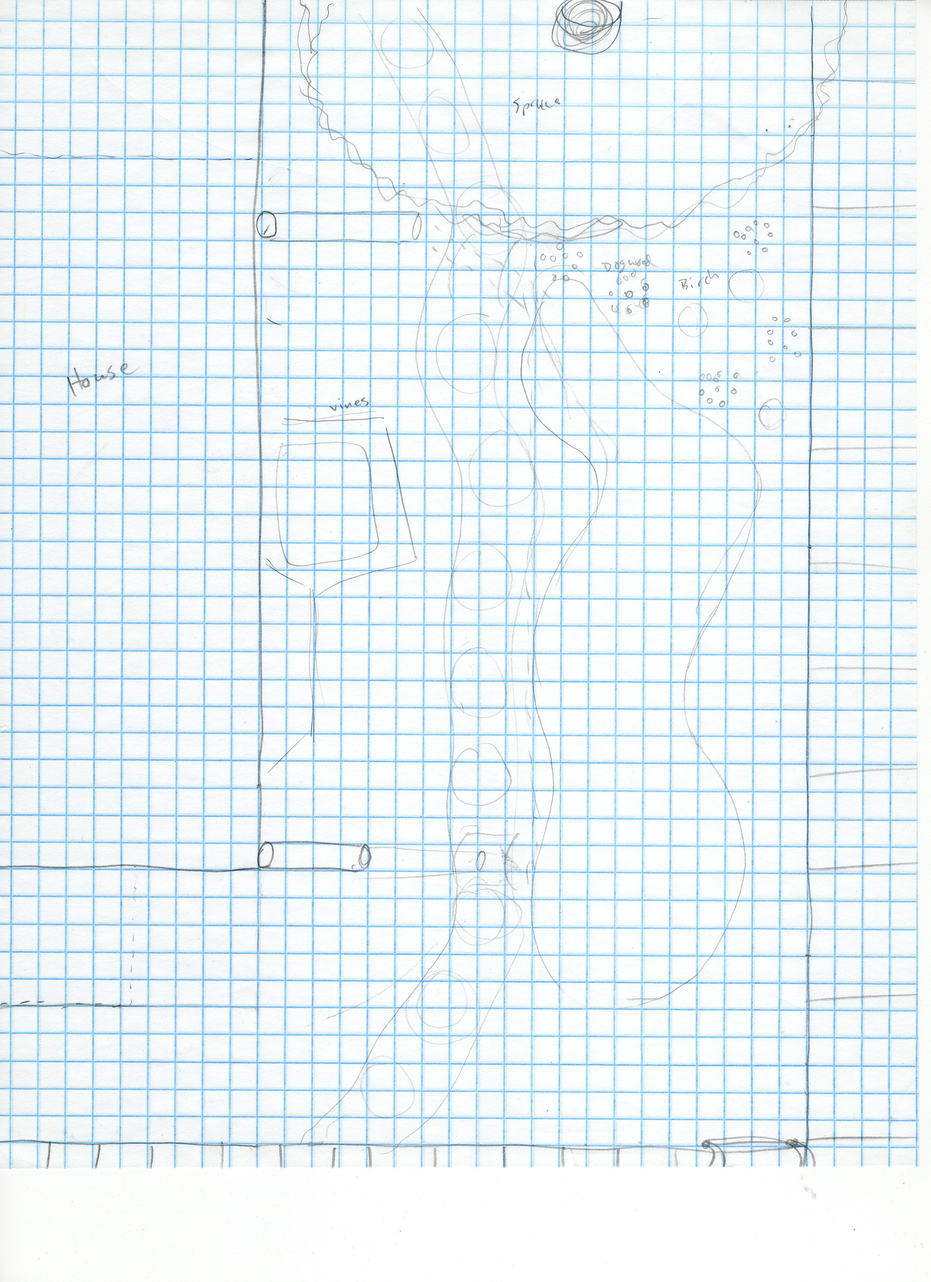
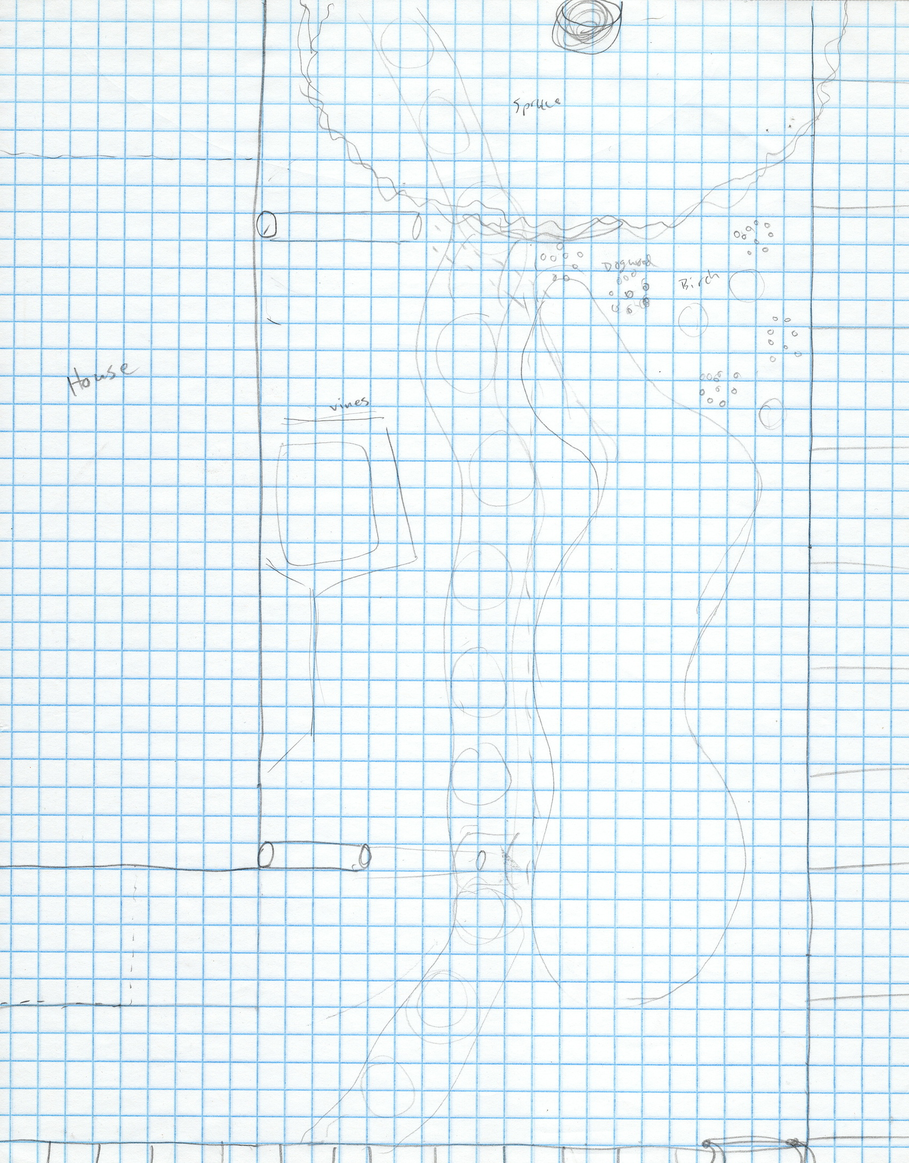
Automated commit from build

diff --git a/how-to-plan-a-garden-part-two.html b/how-to-plan-a-garden-part-two.html
@@ -319,7 +319,7 @@ For each section, I put together a short list of possible plants using the resou
 <figure>
   <img src="https://house.youngram.com/assets/images/how-to-plan-a-garden/resized/rain-garden-sketch-1-1200.jpg" alt="Sketch of a potential rain garden layout" srcset="
 https://house.youngram.com/assets/images/how-to-plan-a-garden/resized/rain-garden-sketch-1-480.jpg 480w, https://house.youngram.com/assets/images/how-to-plan-a-garden/resized/rain-garden-sketch-1-800.jpg 800w, https://house.youngram.com/assets/images/how-to-plan-a-garden/resized/rain-garden-sketch-1-1200.jpg 1200w, 
- https://house.youngram.com/assets/images/how-to-plan-a-garden/rain-garden-sketch-1.jpg 1744w" />
+ https://house.youngram.com/assets/images/how-to-plan-a-garden/rain-garden-sketch-1.jpg 1702w" />
   
 </figure>
 </li>
